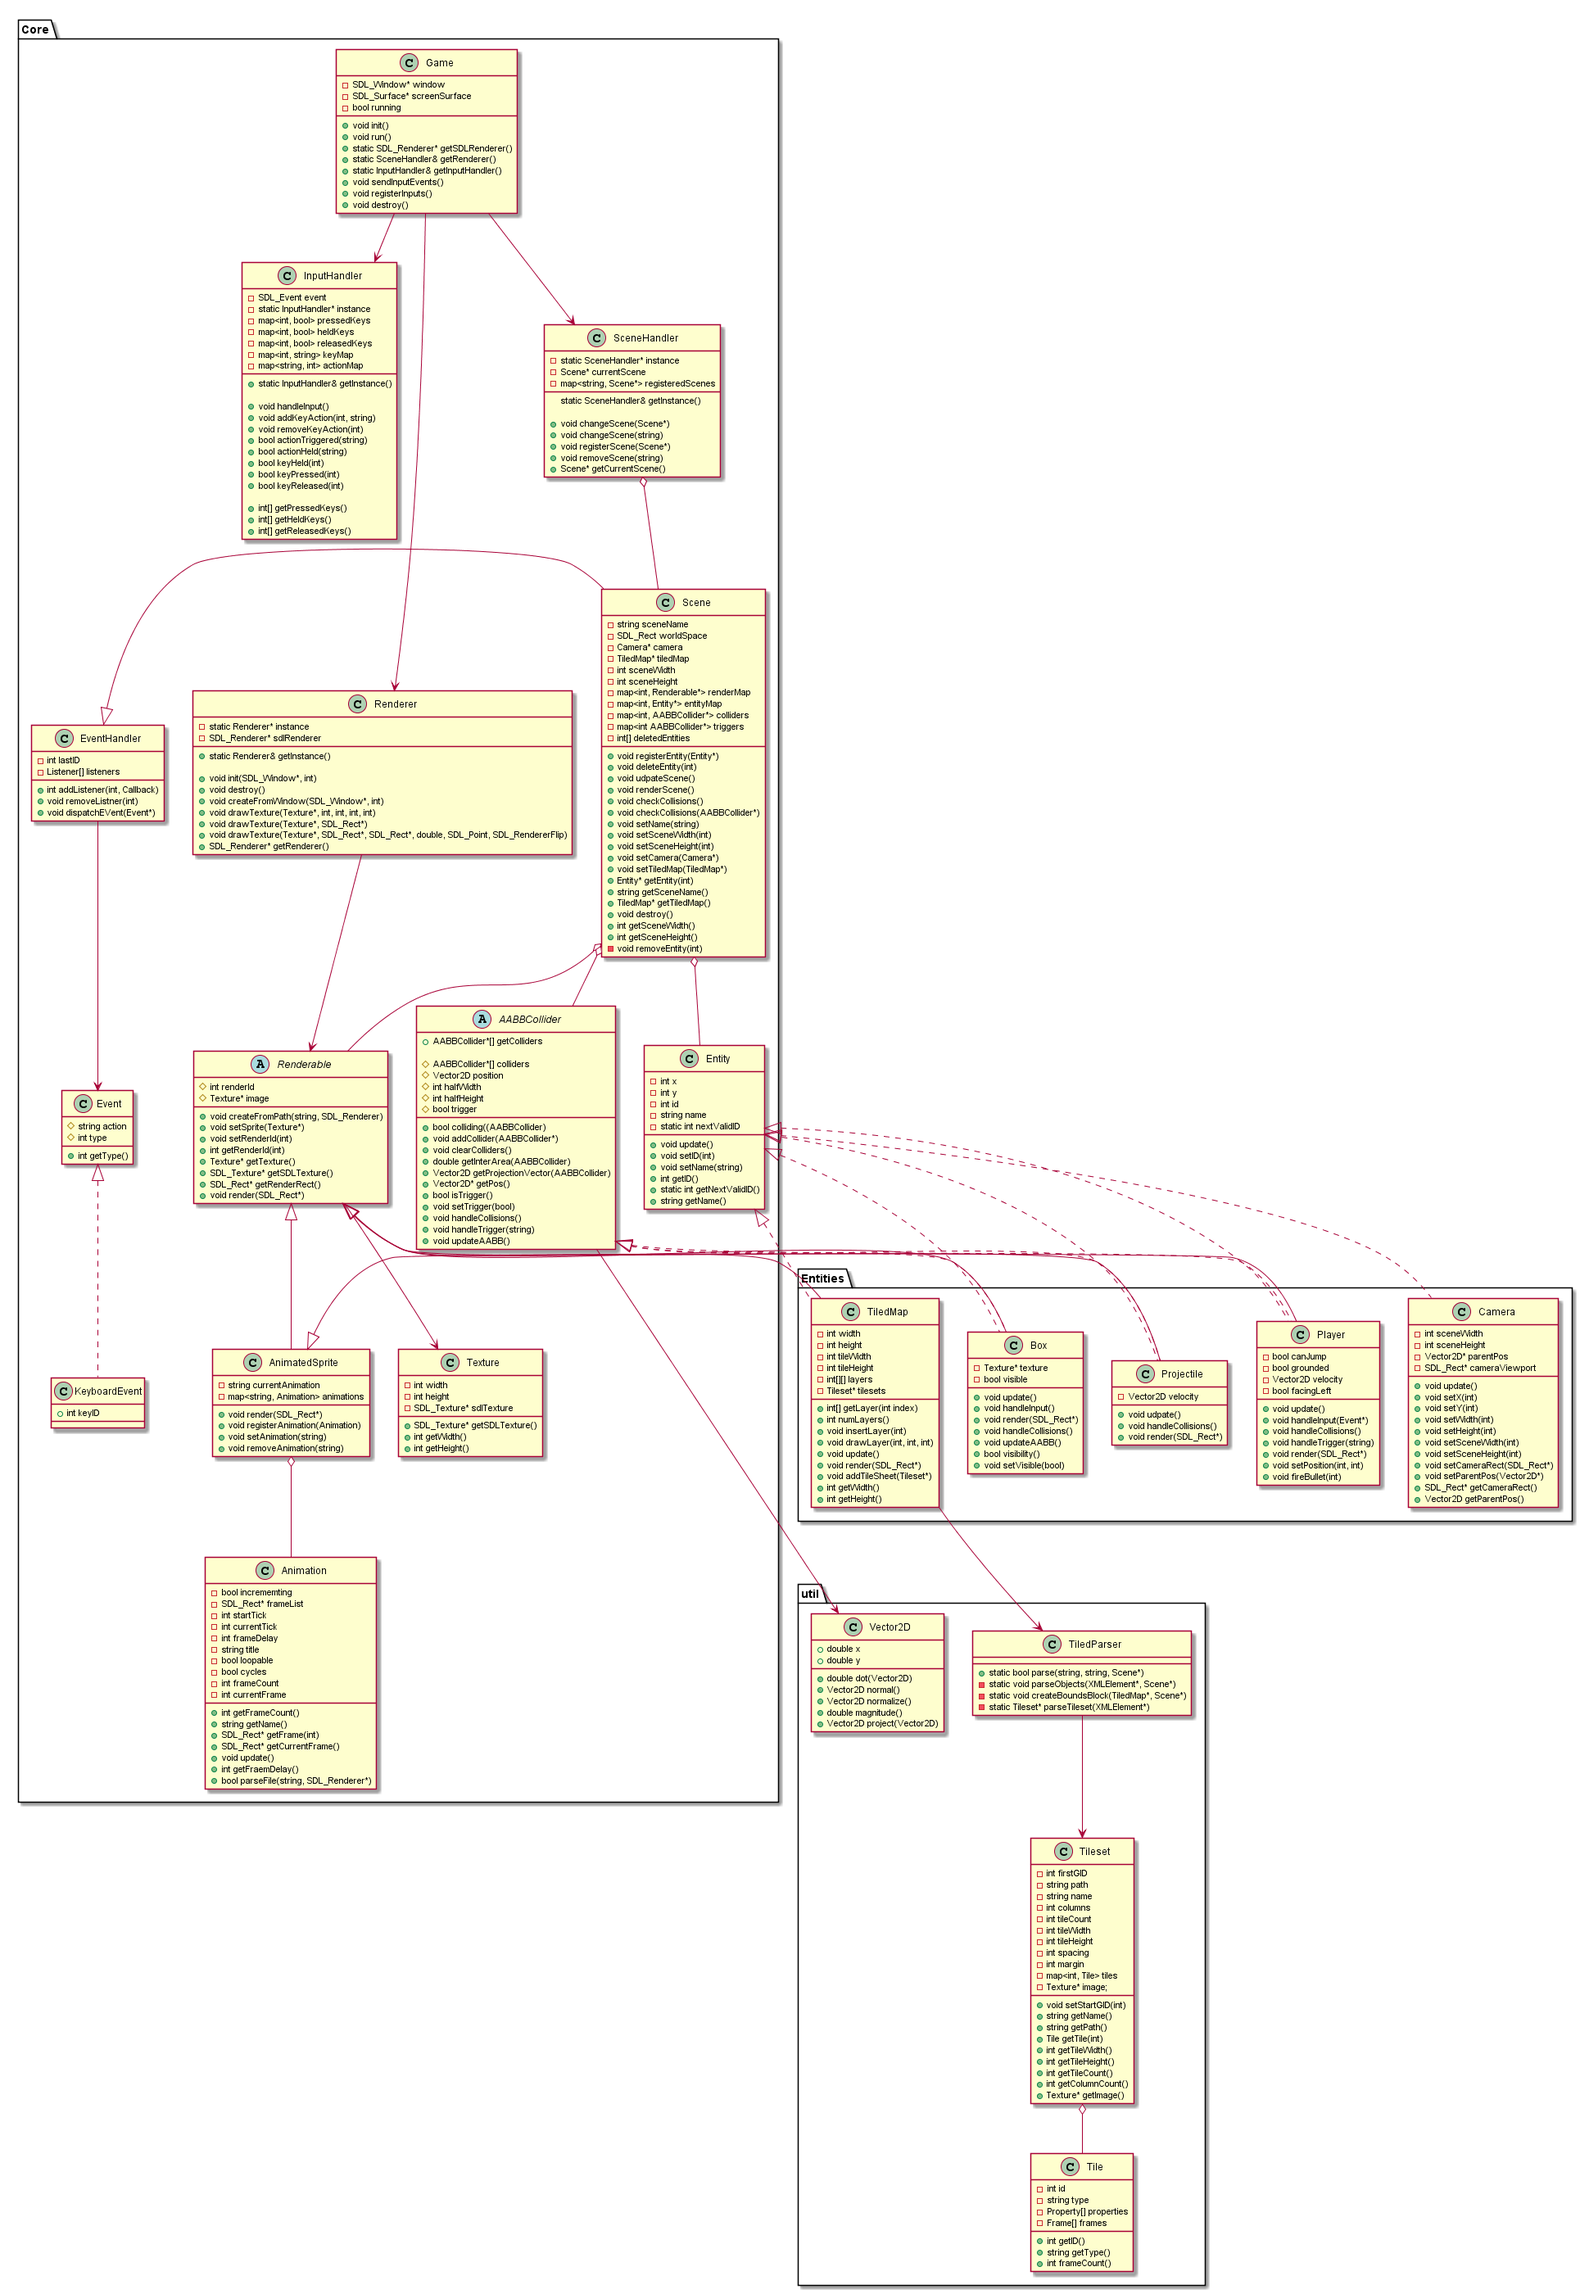
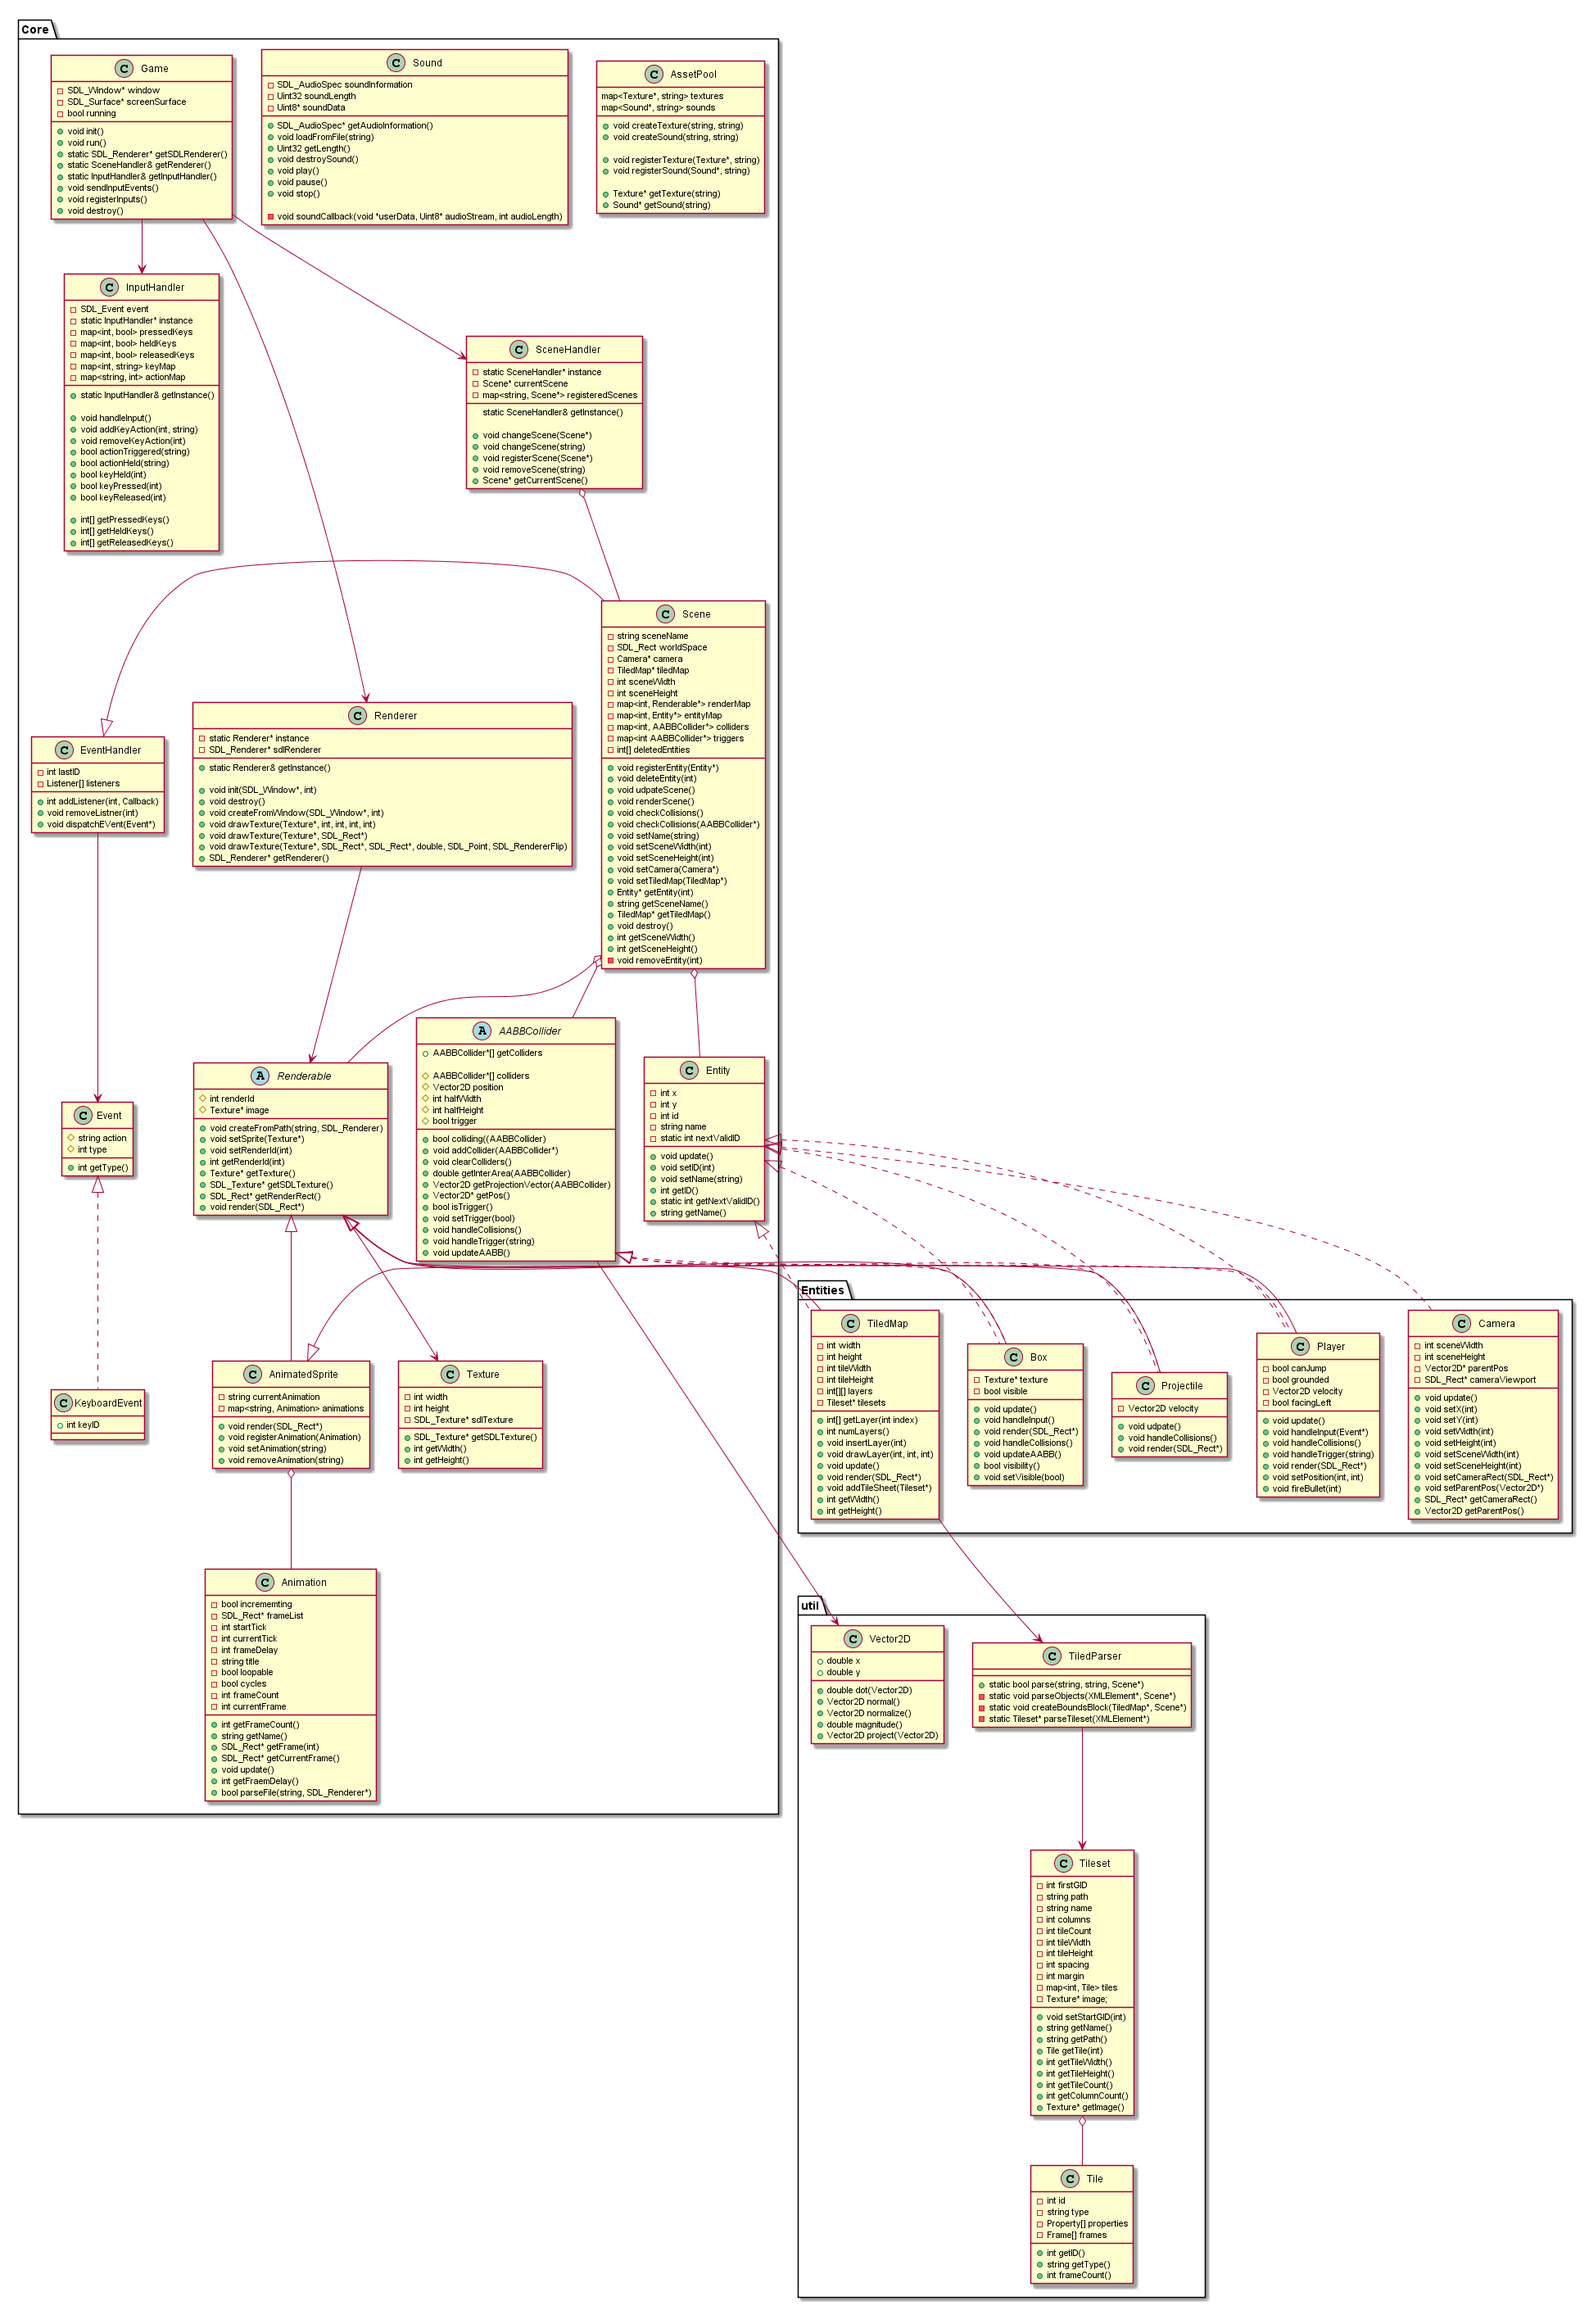
Asset pool (#16)
* Created files for the AssetPool and started working on the implementation for playing audio.

* Basic implementation for the AssetPool is finished.

* Player now shoots bullets and cleaned up some code.

* Freed memory in AssetPool and fixed player animation when walking off a collidable.

* Shooting now gets the block image from the AssetPool.

* Renamed AssetPool to be a little more accurate to it's actual functionality.

diff --git a/src/core/AssetManager.cpp b/src/core/AssetManager.cpp
@@ -1,0 +1,67 @@
+#include "AssetManager.h"
+
+namespace Vulture2D {
+    AssetManager* AssetManager::instance = nullptr;
+
+    AssetManager::~AssetManager(){
+        for(auto i : textures) {
+            if(i.second)
+                delete i.second;
+            textures.erase(i.first);
+        }
+
+        for(auto i : sounds) {
+            if(i.second)
+                delete i.second;
+            sounds.erase(i.first);
+        }
+
+        if(instance) {
+            delete instance;
+        }
+        instance = nullptr;
+    }
+
+    AssetManager& AssetManager::getInstance() {
+        if(!instance) {
+            instance = new AssetManager();
+        }
+        return *instance;
+    }
+
+    Texture* AssetManager::createTexture(string path, string name, SDL_Renderer* renderer) {
+        Texture* texture = new Texture(path, renderer);
+
+        if(textures.find(name) != textures.end()) {
+            return textures.at(name);
+        }
+        textures.insert(std::pair<string, Texture*>(name, texture));
+        return texture;
+    }
+
+    Sound* AssetManager::createSound(string path, string name) {
+        Sound* sound = new Sound(path);
+
+        if(sounds.find(name) != sounds.end()) {
+            return sounds.at(name);
+        }
+        sounds.insert(std::pair<string, Sound*>(name, sound));
+        return sound;
+    }
+
+    void AssetManager::registerTexture(Texture* texture, string name) {
+        textures.insert(std::pair<string, Texture*>(name, texture));
+    }
+
+    void AssetManager::registerSound(Sound* sound, string name) {
+        sounds.insert(std::pair<string, Sound*>(name, sound));
+    }
+
+    Texture* AssetManager::getTexture(string name) {
+        return textures[name];
+    }
+
+    Sound* AssetManager::getSound(string name) {
+        return sounds[name];
+    }
+}

diff --git a/src/util/tiled/TiledParser.cpp b/src/util/tiled/TiledParser.cpp
@@ -58,17 +58,17 @@ bool TiledParser::parse(string filename, string path, Scene* scene) {
 void TiledParser::createBoundsBlock(TiledMap* map, Vulture2D::Scene* scene) {
     Box* left = new Box(-64, map->getHeight()/2, 128, map->getHeight());
     left->setName("level_edge_box");
-    left->createFromPath("resources/images/block.png", Game::getSDLRenderer());
+    left->setSprite(AssetManager::getInstance().getTexture("block"));
     left->setVisible(true);
     
     Box* right = new Box(map->getWidth() + 64, map->getHeight()/2, 128, map->getHeight());
     right->setName("level_edge_box");
-    right->createFromPath("resources/images/block.png", Game::getSDLRenderer());
+    right->setSprite(AssetManager::getInstance().getTexture("block"));
     right->setVisible(true);
 
     Box* top = new Box(map->getWidth()/2, -64, map->getWidth(), 128);
     top->setName("leve_edge_box");
-    top->createFromPath("resources/images/block.png", Game::getSDLRenderer());
+    top->setSprite(AssetManager::getInstance().getTexture("block"));
     top->setVisible(true);
     
     scene->registerEntity(top);
@@ -97,7 +97,7 @@ void TiledParser::parseObjects(XMLElement* objectGroup, Vulture2D::Scene* scene)
                 if (type == "Box") {
                     Box* box = new Box(x + (width / 2), y + (height / 2), width, height);
                     box->setName(name);
-                    box->createFromPath("resources/images/block.png", Game::getSDLRenderer());
+                    box->setSprite(AssetManager::getInstance().getTexture("box"));
                     box->setVisible(visible);
 
                     XMLElement* properties = object->FirstChildElement("properties");

diff --git a/src/main.cpp b/src/main.cpp
@@ -11,6 +11,7 @@ using namespace Vulture2D;
 
 //TODO: Should define a consistent unit of measurement instead of just using pixel size
 void initializeEntities();
+void registerAssets();
 
 Player* player;
 Camera* camera;
@@ -26,6 +27,7 @@ int main(int argc, char* argv[]) {
     game->init();
     game->registerInputs();
 
+    registerAssets();
     scene.setName("start");
     SceneHandler::getInstance().registerScene(&scene);
     
@@ -41,12 +43,19 @@ int main(int argc, char* argv[]) {
     return 0;
 }
 
+void registerAssets() {
+    AssetManager& pool = Game::getAssetManager();
 
+    pool.createTexture("resources/images/MyChar.png", "player", Game::getSDLRenderer());
+    pool.createTexture("resources/images/block.png", "block", Game::getSDLRenderer());
+    pool.createTexture("resources/images/ball.png", "crab", Game::getSDLRenderer());
+    pool.createTexture("resources/tilesets/tilesheet_complete_2X.png", "tilesheet", Game::getSDLRenderer());
+}
 
 void initializeEntities() {
     player = new Player(64, 300, 64, 64);
     player->setName("Player");
-    player->createFromPath("resources/images/MyChar.png", game->getSDLRenderer());
+    player->setSprite(AssetManager::getInstance().getTexture("player"));
 
     TiledParser::parse("Level1.tmx", "resources/tilesets/", &scene);
 

diff --git a/src/entities/Player.cpp b/src/entities/Player.cpp
@@ -57,6 +57,9 @@ void Player::handleInput(Event* event) {
             }
         }
 
+        if(e->keyID == SDLK_e) {
+            fireBullet();
+        }
         if (e->keyID == SDLK_RIGHT) {
             mVelocity.x += speed;
         }
@@ -92,10 +95,10 @@ void Player::render(SDL_Rect* cameraRect) {
     }
 }
 
-void Player::fireBullet(int val) {
-    Projectile* bullet = new Projectile(mPos.x, mPos.y, 10, 10, Vector2D(10, 0));
-    bullet->createFromPath("resources/images/block.png", Game::getSDLRenderer());
-	bullet->setName("player_bullet"); 
+void Player::fireBullet() {
+    Projectile* bullet = new Projectile(mPos.x, mPos.y, 10, 10, Vector2D(facingLeft ? -15 : 15, 0));
+    bullet->setSprite(AssetManager::getInstance().getTexture("block"));
+    bullet->setName("player_bullet"); 
 	bullet->setTrigger(true);
 	Game::getSceneHandler().getCurrentScene()->registerEntity(bullet);
 }
@@ -108,6 +111,9 @@ void Player::setPosition(int x, int y) {
 }
 
 void Player::handleCollisions() {
+    if(mColliders.empty())
+        grounded = false;
+
     while (!mColliders.empty()) {
         
         //Determine the collider that provides the greatest impact on this entity

diff --git a/src/core/AssetManager.h b/src/core/AssetManager.h
@@ -1,0 +1,31 @@
+#include <unordered_map>
+#include "Texture.h"
+#include "Sound.h"
+
+namespace Vulture2D {
+    using std::unordered_map;
+
+    class AssetManager {
+    public:
+        ~AssetManager();
+        static AssetManager& getInstance();
+
+        Texture* createTexture(string path, string name, SDL_Renderer*);
+        Sound* createSound(string path, string name);
+
+        void registerTexture(Texture* texture, string name);
+        void registerSound(Sound* sound, string name);
+        Texture* getTexture(string name);
+        Sound* getSound(string name);
+
+    private:
+        unordered_map<string, Texture*> textures;
+        unordered_map<string, Sound*> sounds;
+
+        static AssetManager* instance;
+
+        AssetManager() {};
+        AssetManager(AssetManager const&) {}
+        AssetManager& operator=(AssetManager const& e) {};
+    };
+}

diff --git a/src/core/Sound.cpp b/src/core/Sound.cpp
@@ -1,0 +1,37 @@
+#include "Sound.h"
+
+namespace Vulture2D {
+    const SDL_AudioSpec& Sound::getAudioInformation() {
+        return soundInformation;
+    }
+
+    bool Sound::loadFromFile(string path) {
+        bool loaded = true;
+        if(SDL_LoadWAV(path.c_str(), &soundInformation, &soundData, &soundLength) == NULL)
+            loaded = false;
+
+        soundInformation.callback = NULL;
+        soundInformation.userdata = NULL;
+        return  loaded;
+    }
+
+    Uint32 Sound::getLength() {
+        return soundLength;
+    }
+
+    void Sound::destroySound() {
+        SDL_FreeWAV(soundData);
+    }
+
+    void Sound::play(SDL_AudioDeviceID deviceID) {
+
+    }
+
+    void Sound::pause() {
+
+    }
+
+    void Sound::stop() {
+
+    }
+}

diff --git a/src/core/Sound.h b/src/core/Sound.h
@@ -1,0 +1,28 @@
+#include <SDL.h>
+#include <string>
+#include <iostream>
+
+namespace Vulture2D {
+    using std::string;
+    class Sound {
+    public:
+        Sound() : soundLength(0), soundData(nullptr) {}
+        Sound(string path) {
+            loadFromFile(path);
+        }
+
+        const SDL_AudioSpec& getAudioInformation();
+        bool loadFromFile(string path);
+        Uint32 getLength();
+        void destroySound();
+        void play(SDL_AudioDeviceID deviceID);
+        void pause();
+        void stop();
+
+    private:
+        SDL_AudioSpec soundInformation;
+        Uint32 soundLength;
+        Uint8* soundData;
+
+    };
+}

diff --git a/src/util/tiled/Tileset.h b/src/util/tiled/Tileset.h
@@ -3,6 +3,7 @@
 #include <map>
 #include "Tile.h"
 #include "../../core/Texture.h"
+#include "../../core/AssetManager.h"
 
 using std::string;
 
@@ -11,12 +12,7 @@ public:
     Tileset(string name, string path, SDL_Renderer* renderer, int tWidth, int tHeight, int tCount, int columns) :
         name(name), path(path), tileWidth(tWidth), tileHeight(tHeight), tileCount(tCount), columns(columns)
     {
-        image = new Vulture2D::Texture(path, renderer);
-    }
-
-    ~Tileset() {
-        delete image;
-        image = nullptr;
+        image = Vulture2D::AssetManager::getInstance().getTexture("tilesheet");
     }
 
     void setStartGID(int gID) {

diff --git a/src/core/Game.cpp b/src/core/Game.cpp
@@ -15,6 +15,10 @@ namespace Vulture2D {
 
         screenSurface = SDL_GetWindowSurface(window);
 
+        InputHandler::getInstance();
+        //AssetManager::getInstance();
+        SceneHandler::getInstance();
+
         running = true;
     }
 
@@ -97,6 +101,10 @@ namespace Vulture2D {
 
     InputHandler& Game::getInputHandler() {
         return InputHandler::getInstance();
+    }
+
+    AssetManager& Game::getAssetManager() {
+        return AssetManager::getInstance();
     }
 
     void Game::registerInputs() {

diff --git a/src/core/Game.h b/src/core/Game.h
@@ -5,6 +5,7 @@
 #include "Renderer.h"
 #include "InputHandler.h"
 #include "SceneHandler.h"
+//#include "AssetManager.h"
 
 namespace Vulture2D {
     class Game {
@@ -16,6 +17,7 @@ namespace Vulture2D {
         static Renderer& getRenderer();
         static SceneHandler& getSceneHandler();
         static InputHandler& getInputHandler();
+        static AssetManager& getAssetManager();
         void sendInputEvents();
         void registerInputs();
         void destroy();

diff --git a/src/core/Renderable.h b/src/core/Renderable.h
@@ -7,12 +7,7 @@ namespace Vulture2D {
     class Renderable {
     public:
         Renderable() : image(nullptr) {};
-        virtual ~Renderable() {
-            std::cout << "Destroying renderable" << std::endl;
-            if (image)
-                delete image;
-            image = nullptr;
-        }
+        virtual ~Renderable() {}
 
         void createFromPath(const char* path, SDL_Renderer* renderer) {
             image = new Texture(path, renderer);

diff --git a/src/entities/Projectile.h b/src/entities/Projectile.h
@@ -7,7 +7,6 @@
 class Projectile : public Vulture2D::Entity, public Vulture2D::Renderable, public AABBCollider {
 public:
 	Projectile(double x, double y, int w, int h, Vector2D velocity) : AABBCollider(x,y,w,h), mVelocity(velocity) {};
-    virtual ~Projectile();
 	void update();
 	virtual void handleCollisions();
 	void render(SDL_Rect*);
